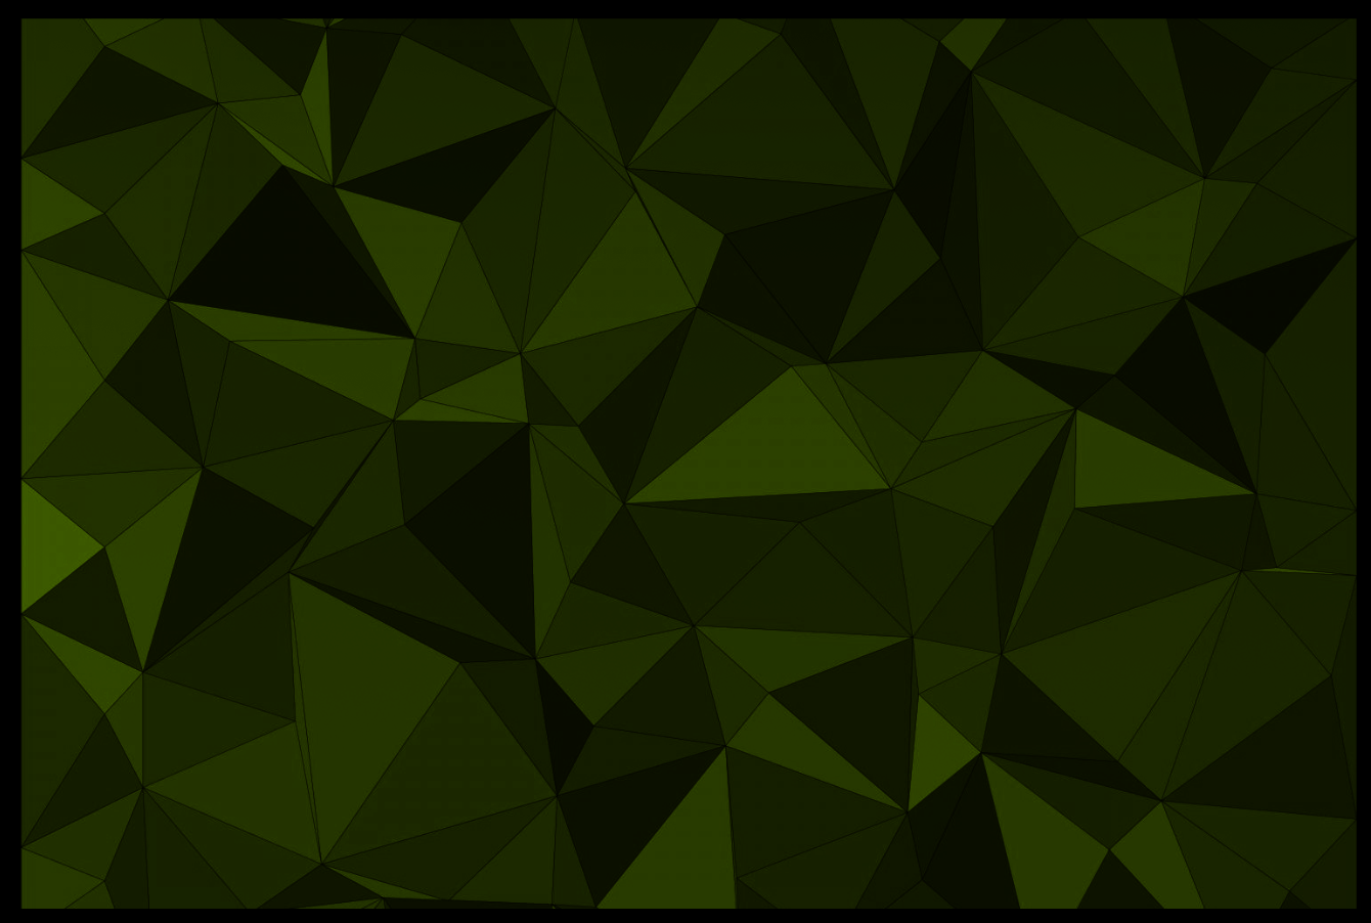
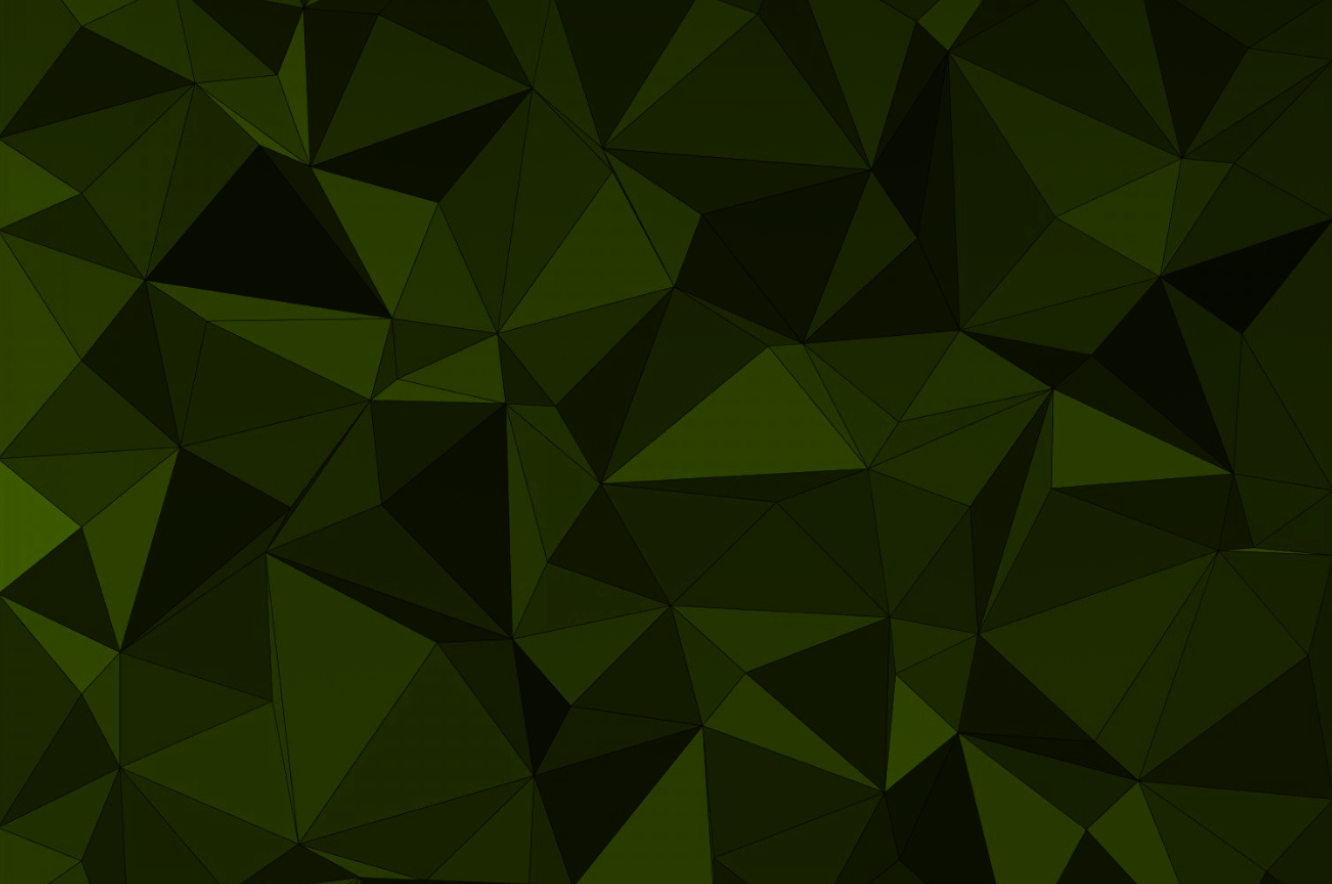
Adjust bg image for profile page

diff --git a/lib/ui/profile_tos_pp_feedback/profile_page.dart b/lib/ui/profile_tos_pp_feedback/profile_page.dart
@@ -11,15 +11,19 @@ class _ProfileScreenState extends State<ProfileScreen> {
   Widget build(BuildContext context) {
     return Stack(
       children: [
-        Align(
-          alignment: Alignment.topCenter,
-          child: Image.asset(
-            AssetConstants.PROFILE_BG,
-            fit: BoxFit.cover,
-            alignment: Alignment.topCenter,
-          ),
-        ),
+        _getBgImage(),
       ],
+    );
+  }
+
+  Align _getBgImage() {
+    return Align(
+      alignment: Alignment.topCenter,
+      child: Image.asset(
+        AssetConstants.PROFILE_BG_2,
+        fit: BoxFit.cover,
+        alignment: Alignment.topCenter,
+      ),
     );
   }
 }

diff --git a/lib/constants/asset_constants.dart b/lib/constants/asset_constants.dart
@@ -6,6 +6,7 @@ class AssetConstants {
   static const String PP = "assets/images/pp.png";
   static const String FEEDBACK = "assets/images/feedback.png";
   static const String PROFILE_BG = "assets/images/profile_bg.png";
+  static const String PROFILE_BG_2 = "assets/images/profile_bg_2.png";
 
   // Navigation Drawer
   static const String NAV_NOTIFICATION = "assets/images/notifications.png";

diff --git a/lib/ui/home_pages/home_screen.dart b/lib/ui/home_pages/home_screen.dart
@@ -61,6 +61,7 @@ class _HomeScreenState extends State<HomeScreen> {
       flexibleSpace: Image.asset(
         AssetConstants.PROFILE_BG,
         fit: BoxFit.cover,
+        alignment: Alignment.topCenter,
       ),
       elevation: 0,
       iconTheme: IconThemeData(color: ColorConstants.lightPrimaryColor),
